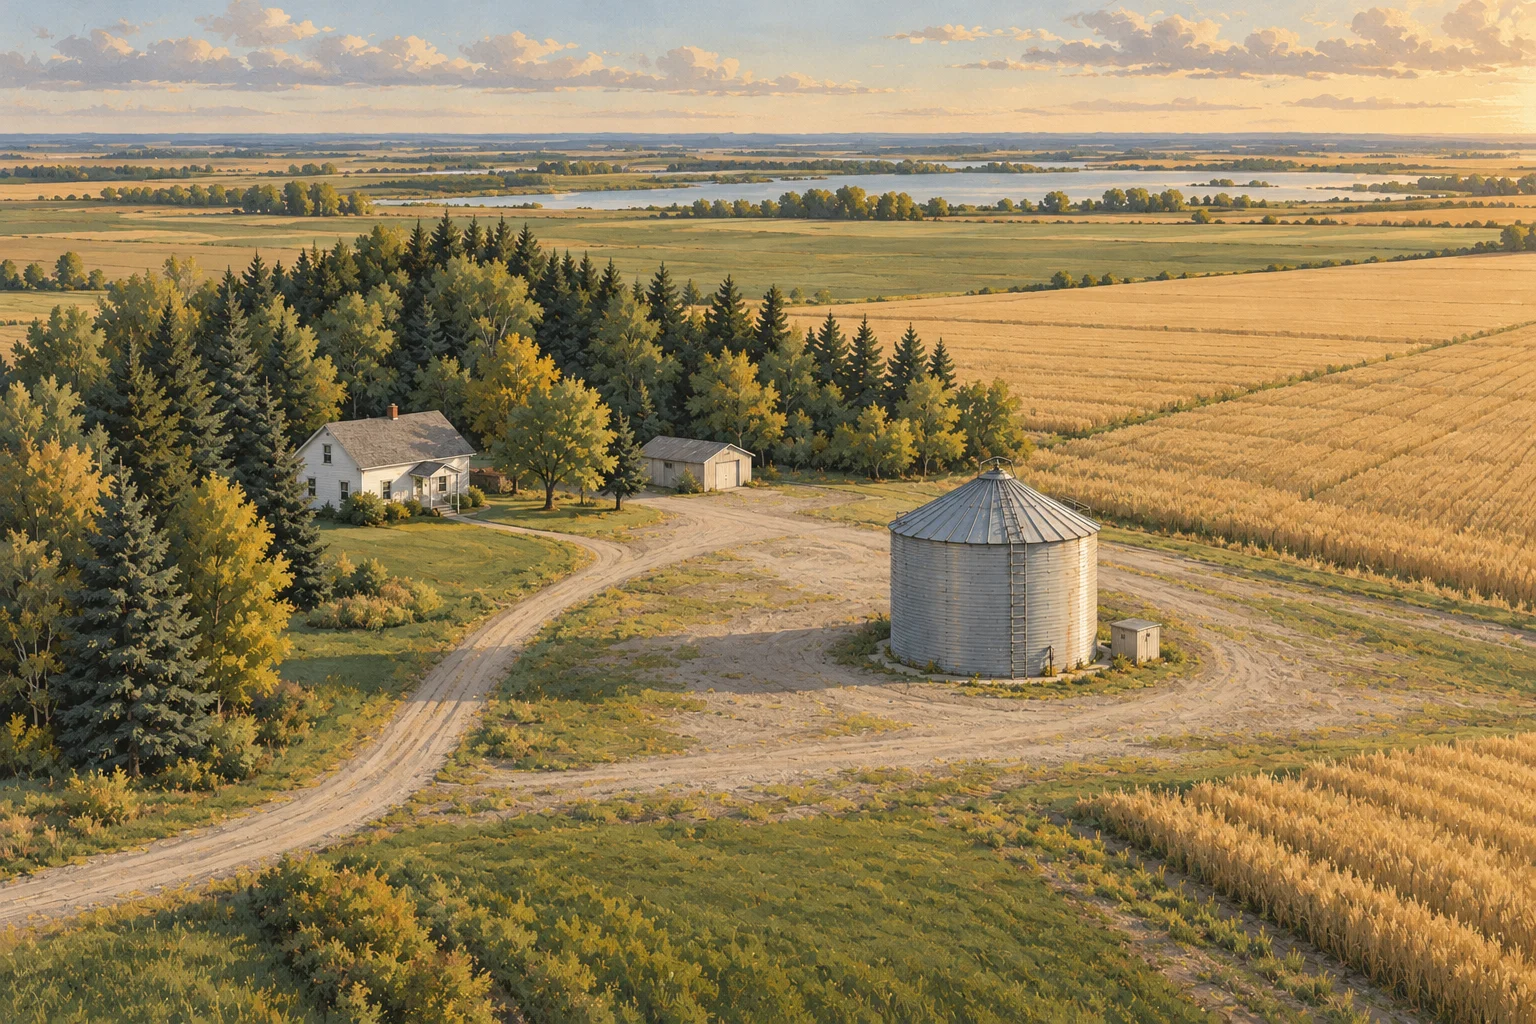
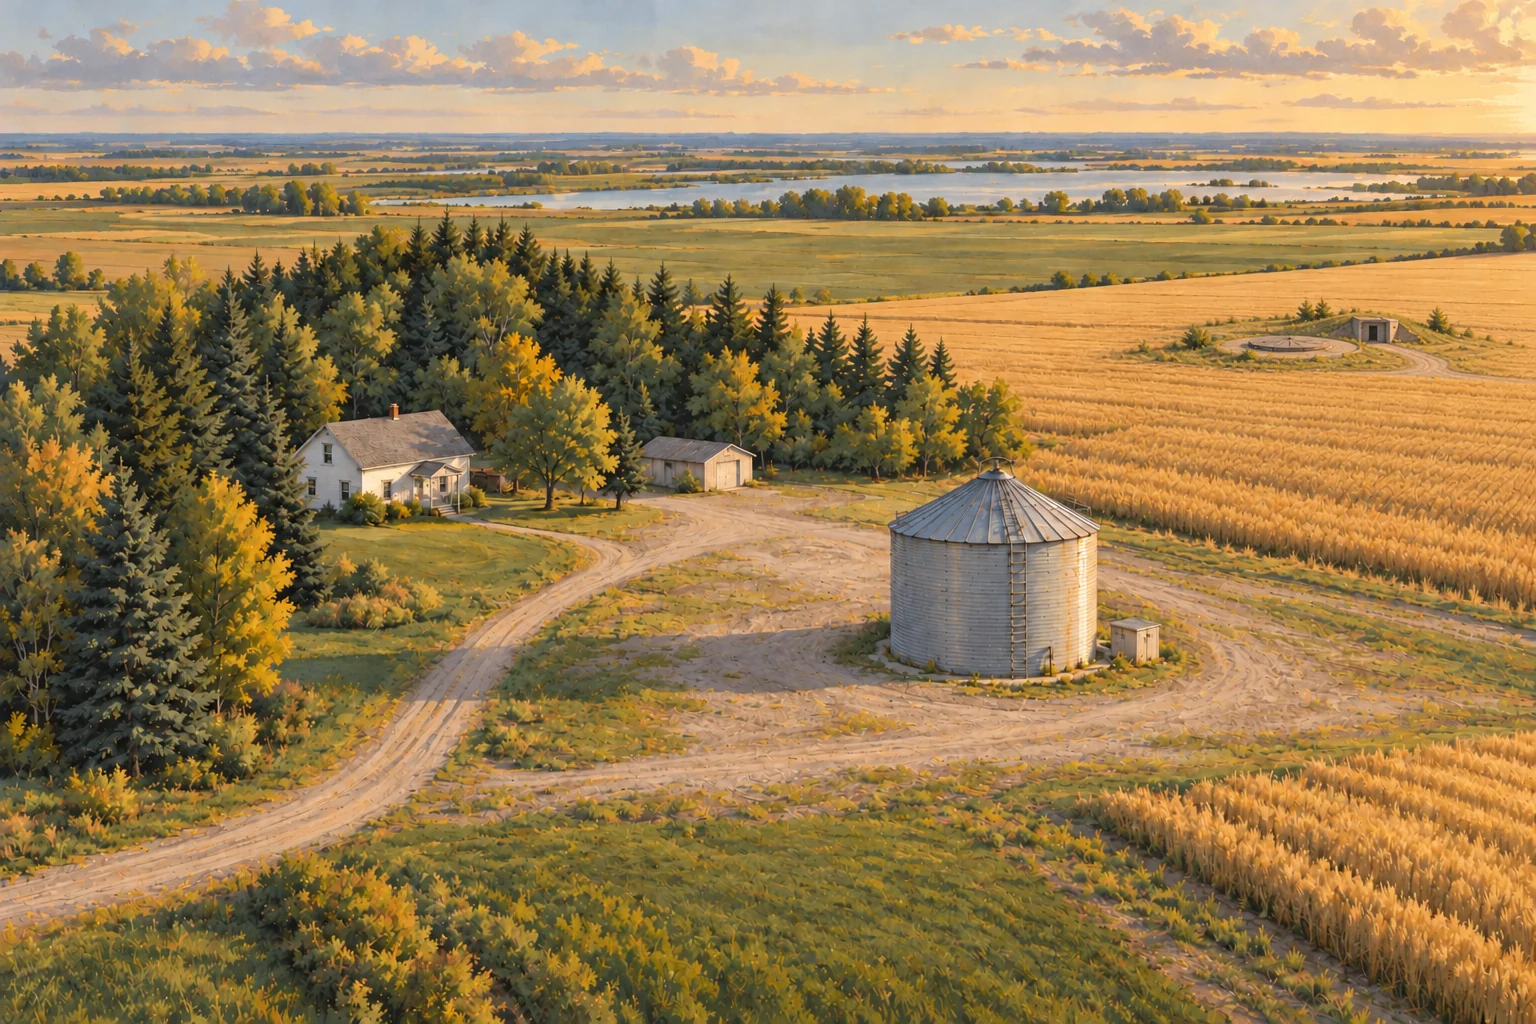
Add Silo Works destination to the illustrated farm

Changed region(s): [[0.0, 0.125, 1.0, 1.0]]

diff --git a/index.html b/index.html
@@ -4,7 +4,7 @@
     <meta charset="utf-8">
     <meta name="viewport" content="width=device-width, initial-scale=1">
     <meta name="theme-color" content="#f2ebdd">
-    <meta name="description" content="Shelterbelt is Thomas Pflipsen’s independent software workshop. Explore the farm and discover Grain Bin, a tool for understanding stablecoins.">
+    <meta name="description" content="Shelterbelt is Thomas Pflipsen’s independent software workshop. Explore the farm and discover Grain Bin for data exploration and Silo Works for drawing processes and systems.">
     <title>Shelterbelt — Build useful things.</title>
     <link rel="icon" href="/icon.svg" type="image/svg+xml">
     <link rel="preload" href="/assets/farm.webp" as="image" type="image/webp">
@@ -25,8 +25,9 @@
         <div class="farm-stage">
           <div class="farm-window">
             <div class="farm-camera">
-              <img class="farm-art" src="/assets/farm.webp" width="1536" height="1024" fetchpriority="high" alt="An illustrated North Dakota-inspired farmstead: flat grain fields, long shelterbelt rows, a gravel lane, a modest farmhouse, and a corrugated metal grain bin.">
+              <img class="farm-art" src="/assets/farm.webp" width="1536" height="1024" fetchpriority="high" alt="An illustrated North Dakota-inspired farmstead: flat grain fields, long shelterbelt rows, a gravel lane, a modest farmhouse, a corrugated metal grain bin, and a small, low-profile former missile-silo site farther out in the field.">
               <button class="farm-hotspot" style="--destination-x: 65%; --destination-y: 58%" type="button" popovertarget="grain-bin" aria-haspopup="dialog" aria-label="Show Grain Bin details, experiment 001"><span class="destination-label"><span class="destination-dot" aria-hidden="true"></span>001 / Grain Bin <span aria-hidden="true">+</span></span></button>
+              <button class="farm-hotspot farm-hotspot--silo" style="--destination-x: 85.5%; --destination-y: 34%" type="button" popovertarget="silo-works" aria-haspopup="dialog" aria-label="Show Silo Works details, experiment 002"><span class="destination-label"><span class="destination-dot" aria-hidden="true"></span>002 / Silo Works <span aria-hidden="true">+</span></span></button>
             </div>
             <div class="scene-heading"><p class="eyebrow">A place for the work</p><h2 id="farm-title">Explore Shelterbelt.</h2></div>
             <div id="grain-bin" class="project-card" popover role="dialog" aria-labelledby="grain-bin-title">
@@ -38,7 +39,19 @@
               <a class="button" href="https://grainbin.shelterbelt.xyz">Open Grain Bin <span aria-hidden="true">↗</span></a>
               <a class="card-source" href="https://github.com/Pflipto/grain-bin">View the code <span aria-hidden="true">↗</span></a>
             </div>
-            <a class="farm-fallback" href="https://grainbin.shelterbelt.xyz">Open Grain Bin <span aria-hidden="true">↗</span></a>
+            <div id="silo-works" class="project-card" popover role="dialog" aria-labelledby="silo-works-title">
+              <button class="card-close" type="button" popovertarget="silo-works" popovertargetaction="hide" aria-label="Close Silo Works details" autofocus><span aria-hidden="true">×</span></button>
+              <p class="eyebrow">Experiment 002</p>
+              <h2 id="silo-works-title">Silo Works</h2>
+              <p class="project-subtitle">Might as well draw it out.</p>
+              <p class="project-description">Sketch a process, connect a few systems, and make an idea easier to explain. A simple diagram editor that keeps your work in your browser.</p>
+              <a class="button" href="https://silo.shelterbelt.xyz">Open Silo Works <span aria-hidden="true">↗</span></a>
+              <a class="card-source" href="https://github.com/Pflipto/Silo-Works">View the code <span aria-hidden="true">↗</span></a>
+            </div>
+            <nav class="farm-fallback" aria-label="Farm projects">
+              <a href="https://grainbin.shelterbelt.xyz">Open Grain Bin <span aria-hidden="true">↗</span></a>
+              <a href="https://silo.shelterbelt.xyz">Open Silo Works <span aria-hidden="true">↗</span></a>
+            </nav>
           </div>
         </div>
       </section>

diff --git a/styles.css b/styles.css
@@ -54,6 +54,7 @@ h1 em { color: #80552e; font-weight: 400; }
 .farm-enhanced .farm-stage { position: sticky; top: 0; }
 .farm-enhanced .farm-camera { will-change: transform; }
 .farm-hotspot { position: absolute; left: var(--destination-x, 65%); top: var(--destination-y, 58%); width: 14%; height: 22%; min-width: 52px; min-height: 64px; transform: translate(-50%, -50%); text-decoration: none; border: 0; padding: 0; background: transparent; font-family: inherit; cursor: pointer; border-radius: 45% 45% 18% 18%; }
+.farm-hotspot--silo { width: 16%; height: 10%; min-height: 44px; border-radius: 50%; }
 .farm-hotspot:hover, .farm-hotspot:focus-visible { outline: 3px solid var(--sb-paper); outline-offset: 5px; background: rgb(250 247 240 / .08); }
 .destination-label { position: absolute; top: calc(100% + 10px); left: 50%; transform: translateX(-50%); display: flex; align-items: center; gap: 10px; white-space: nowrap; background: var(--sb-paper); color: var(--sb-silo); padding: 12px 14px; font-size: 12px; font-weight: 600; border: 1px solid rgb(23 28 23 / .2); box-shadow: 0 3px 14px rgb(23 28 23 / .12); }
 .destination-label::before { content: ""; position: absolute; bottom: 100%; left: 50%; width: 1px; height: 18px; background: var(--sb-paper); }
@@ -77,7 +78,8 @@ h1 em { color: #80552e; font-weight: 400; }
 .card-source { display: inline-flex; align-items: center; gap: 12px; min-height: 44px; margin-top: 8px; font-size: 13px; }
 @supports not selector(:popover-open) {
   .farm-hotspot, .project-card { display: none; }
-  .farm-fallback { display: flex; position: absolute; right: 20px; bottom: 20px; gap: 20px; padding: 15px 18px; background: var(--sb-paper); font-size: 14px; }
+  .farm-fallback a { display: inline-flex; align-items: center; gap: 12px; min-height: 44px; }
+  .farm-fallback { display: flex; position: absolute; right: 20px; bottom: 20px; gap: 12px; flex-wrap: wrap; max-width: calc(100% - 40px); padding: 10px 16px; background: var(--sb-paper); font-size: 14px; }
 }
 .site-footer { display: grid; grid-template-columns: minmax(180px, .8fr) minmax(0, 1.6fr); column-gap: clamp(32px, 4vw, 64px); row-gap: 0; align-items: start; padding-block: 30px 38px; margin-top: 32px; border-top: 1px solid var(--sb-line); }
 .footer-identity { grid-column: 1; grid-row: 1; }
@@ -112,13 +114,16 @@ h1 em { color: #80552e; font-weight: 400; }
   .site-header h1 { margin-top: 24px; }
   h1 { font-size: clamp(54px, 11vw, 80px); }
   .farm { --farm-height: 440px; }
-  .farm-camera { left: 45%; }
+  /* Keep the distant silo and grain bin in view across narrow screen widths. */
+  .farm-camera { left: auto; right: 16px; transform: translate(calc(6% + var(--camera-x)), calc(-50% + var(--camera-y))) scale(var(--camera-scale)); }
+  .farm-hotspot--silo .destination-label { top: auto; bottom: calc(100% + 12px); left: auto; right: 50%; transform: none; }
+  .farm-hotspot--silo .destination-label::before { top: 100%; bottom: auto; left: auto; right: 0; }
   .farm-enhanced .farm { min-height: 0; }
   .farm-enhanced .farm-stage { position: relative; }
   .farm-enhanced .farm-camera { will-change: auto; }
-  .scene-heading { top: 20px; left: 20px; padding: 13px 16px; }
+  .scene-heading { top: 16px; left: 20px; padding: 10px 14px; }
   .scene-heading .eyebrow { display: none; }
-  .scene-heading h2 { font-size: 24px; }
+  .scene-heading h2 { font-size: 22px; }
   .site-footer { grid-template-columns: minmax(0, 1fr) auto; column-gap: 20px; row-gap: 20px; align-items: start; margin-top: 24px; padding-block: 28px calc(28px + env(safe-area-inset-bottom, 0px)); }
   .footer-identity { grid-column: 1; grid-row: 1; min-width: 0; }
   .footer-identity .wordmark { min-height: 44px; font-size: 13px; }

diff --git a/farm.js b/farm.js
@@ -19,9 +19,11 @@ function enhanceFarm() {
   const farm = document.querySelector("[data-farm]");
   const stage = farm?.querySelector(".farm-stage");
   const camera = farm?.querySelector(".farm-camera");
-  const project = document.getElementById("grain-bin");
-  const hotspot = farm?.querySelector(".farm-hotspot");
-  if (!farm || !stage || !camera || !project || !hotspot) return;
+  const destinations = Array.from(farm?.querySelectorAll(".farm-hotspot[popovertarget]") ?? [], hotspot => ({
+    hotspot,
+    project: document.getElementById(hotspot.getAttribute("popovertarget")),
+  })).filter(({ project }) => project);
+  if (!farm || !stage || !camera || !destinations.length) return;
 
   const reducedMotion = matchMedia("(prefers-reduced-motion: reduce)");
   const smallScreen = matchMedia("(max-width: 760px)");
@@ -33,7 +35,7 @@ function enhanceFarm() {
   let visible = true;
   let frame = 0;
 
-  function positionProjectCard() {
+  function positionProjectCard({ hotspot, project }) {
     if (typeof project.showPopover !== "function" || !project.matches(":popover-open")) return;
     const bounds = farm.getBoundingClientRect();
     if (bounds.bottom <= 0 || bounds.top >= innerHeight) {
@@ -61,7 +63,7 @@ function enhanceFarm() {
     camera.style.setProperty("--camera-x", `${value.x.toFixed(3)}%`);
     camera.style.setProperty("--camera-y", `${value.y.toFixed(3)}%`);
     camera.style.setProperty("--camera-scale", value.scale.toFixed(4));
-    positionProjectCard();
+    destinations.forEach(positionProjectCard);
   }
 
   function schedulePaint() {
@@ -73,7 +75,7 @@ function enhanceFarm() {
     paint();
   }
 
-  // The scene and its hotspot share one transform, keeping their coordinates aligned.
+  // The scene and its hotspots share one transform, keeping their coordinates aligned.
   document.documentElement.classList.add("farm-enhanced");
   refresh();
 
@@ -86,7 +88,9 @@ function enhanceFarm() {
           cancelAnimationFrame(frame);
           frame = 0;
         }
-        if (typeof project.hidePopover === "function" && project.matches(":popover-open")) project.hidePopover();
+        for (const { project } of destinations) {
+          if (typeof project.hidePopover === "function" && project.matches(":popover-open")) project.hidePopover();
+        }
       }
     }, { rootMargin: "200px 0px" }).observe(farm);
   }
@@ -97,7 +101,7 @@ function enhanceFarm() {
 
   // Native popovers provide click-away/Escape dismissal, focus restoration,
   // and a working click interaction even when JavaScript is disabled.
-  project.addEventListener("toggle", event => {
+  for (const { project } of destinations) project.addEventListener("toggle", event => {
     if (event.newState === "open") refresh();
     else {
       project.classList.remove("is-positioned");

diff --git a/README.md b/README.md
@@ -1,6 +1,6 @@
 # Shelterbelt
 
-**Build useful things.** Thomas Pflipsen’s independent software workshop. The Living Farm is an illustrated way to explore its experiments; Grain Bin is the first destination.
+**Build useful things.** Thomas Pflipsen’s independent software workshop. The Living Farm is an illustrated way to explore its experiments; Grain Bin and Silo Works are the first two destinations.
 
 ## Develop locally
 
@@ -17,13 +17,13 @@ Inter and Newsreader are served locally in WOFF2 format. Their original TTF file
 ## The scene and interaction
 
 - `assets/farm.webp` is an AI-generated editorial illustration, optimized for delivery at 1536 × 1024. It is a North Dakota-inspired interpretation, **not a photograph, map, or reconstruction of the family property**. Buildings and layout are illustrative, not historical claims.
-- `.farm-camera` holds the image and destination control in one coordinate system. Its 3:2 aspect ratio matches the image. The hotspot’s `--destination-x` and `--destination-y` percentages register it to the depicted grain bin; changing the illustration requires checking these coordinates.
+- `.farm-camera` holds the image and both destination controls in one coordinate system. Its 3:2 aspect ratio matches the image. Each hotspot’s `--destination-x` and `--destination-y` percentages register it to its depicted site: the grain bin (65%, 58%) and the distant former missile-silo compound (85.5%, 34%). Changing the illustration requires checking both. On narrow screens the framing keeps both destinations visible; the Silo Works label sits above its site to avoid overlapping the grain bin.
 - `data-camera-x`, `data-camera-y`, and `data-camera-scale` on `#farm` configure the single camera approach. `farm.js` bounds the transform and uses a smooth progress curve. This is a pan and zoom across a two-dimensional illustration, not an orbiting 3D scene.
 - On desktop, a short sticky section (1.68 viewport heights in total) uses normal page scrolling. One screen is visible at a time; the approach takes about 0.68 screens of additional scrolling. There is no intercepted scrolling or animation loop running continuously. Updates use `requestAnimationFrame` only after scroll/resize or motion-preference changes and stop outside the scene.
-- On screens at or below 760px, and when reduced motion is requested, the camera remains still and the scene uses ordinary page flow. With JavaScript disabled, the overview stays static and the project card still works through the browser’s native popover controls.
-- Selecting “001 / Grain Bin” opens a compact native popover beside the bin. Scrolling alone never opens it. The card contains a short project description, the live app link, and a source link. Close it with the close button, Escape, or a click outside it. Closing with Escape or the close button returns focus to the bin. The header also provides a conventional direct link to the live app.
-- The browser’s Popover API handles opening, dismissal, and keyboard behavior without JavaScript. For the card, `farm.js` only positions it beside the bin, keeps it inside the viewport, and updates its position during camera movement or resizing. Without JavaScript the same card opens centered. Browsers without native popover support get a direct app link instead.
-- The project card stays outside the transformed camera, in the browser’s top layer. Future destinations can use their own coordinate-based controls and project cards. Adding another building will require an artwork update; there is no procedural environment or speculative second project.
+- On screens at or below 760px, and when reduced motion is requested, the camera remains still and the scene uses ordinary page flow. With JavaScript disabled, the overview stays static and both project cards still work through the browser’s native popover controls.
+- Selecting “001 / Grain Bin” or “002 / Silo Works” opens the matching compact native popover beside its site. Scrolling alone never opens it. The card contains a short project description, the live app link, and a source link. Close it with the close button, Escape, or a click outside it. Closing with Escape or the close button returns focus to the corresponding site. The header also provides a conventional direct link to Grain Bin.
+- The browser’s Popover API handles opening, dismissal, and keyboard behavior without JavaScript. For each card, `farm.js` only positions it beside its own site, keeps it inside the viewport, and updates its position during camera movement or resizing. Without JavaScript each card opens centered. Browsers without native popover support get direct app links instead.
+- The project card stays outside the transformed camera, in the browser’s top layer. Silo Works is represented by a small, decommissioned Cold War-style underground site farther into the field, with a closed hatch and earth-covered access bunker. This is illustrative scenery, not a claim about a real installation. Both cards share the same positioning code; native automatic popovers keep only one card open at a time. There is no procedural environment.
 
 The masthead combines the wordmark, workshop descriptor, navigation, and main headline in a single header. The slogan appears once in the opening; the footer identity is the wordmark with a quiet coordinate line. Mobile navigation keeps the wordmark and direct Grain Bin link on one row. The footer places the identity and social links side by side, with the full story in a native “Why Shelterbelt?” disclosure below. The story is expanded on desktop; without JavaScript it remains readable and can still be collapsed using the native control.
 
@@ -38,13 +38,13 @@ node --test tests/farm.test.mjs
 Before merging, check:
 
 - Desktop and narrow mobile layouts, image loading, readable text, and horizontal overflow.
-- The wide-to-bin scroll approach and alignment of the bin’s visible label and hit target.
-- The card remains hidden during scrolling and opens only on bin activation, including keyboard activation. Check close-button, Escape, and outside-click dismissal and focus returning to the bin.
-- The card fits narrow and short viewports, repositions when resized, and follows the bin during camera movement. No unexpected focus movement while scrolling.
+- The scroll approach and alignment of both sites’ visible labels and hit targets.
+- Both cards remain hidden during scrolling and open only on destination activation, including keyboard activation. Check close-button, Escape, and outside-click dismissal and focus returning to the corresponding site.
+- The card fits narrow and short viewports, repositions when resized, and follows its site during camera movement. No unexpected focus movement while scrolling.
 - Reduced motion, including changing the preference while the page is open.
-- JavaScript disabled: static scene, working native project popover, app/source links, and native navigation.
+- JavaScript disabled: static scene, both working native project popovers, app/source links, and native navigation.
 - Local font loading and fallbacks; visible focus, contrast, and semantic headings.
-- The live Grain Bin destination and the branch preview. Automated accessibility checks do not replace reviewing the actual experience.
+- The live Grain Bin and Silo Works destinations and the branch preview. Automated accessibility checks do not replace reviewing the actual experience.
 
 ## Vercel
 
